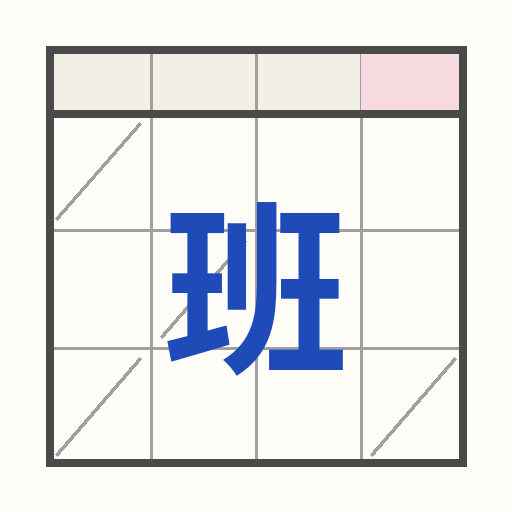
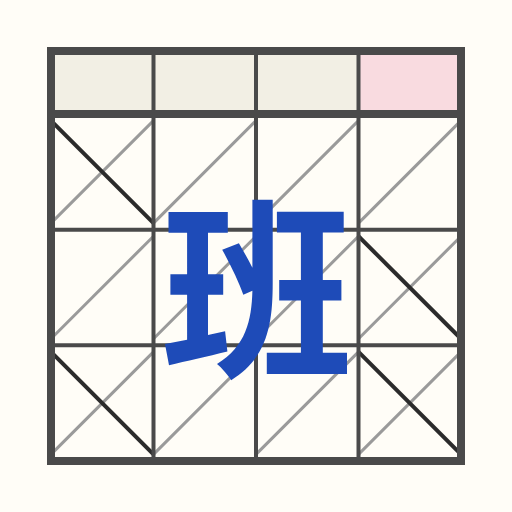
Add files via upload

diff --git a/index.html b/index.html
@@ -8,8 +8,8 @@
 <meta name="theme-color" content="#eceae3">
 <meta name="description" content="門市排班與劃假">
 <link rel="manifest" href="./manifest.webmanifest">
-<link rel="icon" href="./icon-192.png">
-<link rel="apple-touch-icon" href="./apple-touch-icon.png">
+<link rel="icon" href="./icon-192.png?v=2">
+<link rel="apple-touch-icon" href="./apple-touch-icon.png?v=2">
 <meta name="mobile-web-app-capable" content="yes">
 <meta name="apple-mobile-web-app-capable" content="yes">
 <meta name="apple-mobile-web-app-status-bar-style" content="default">
@@ -997,9 +997,79 @@ body.print-sizing .name-sub{margin-top:0}
   html.dark .c-amber{color:#d99a00}
   html.dark .c-orange{color:#a85c07}
 }
+/* ── 開啟動畫：圖示淡入後自己畫出來，再放大淡出進入班表（框線規格同實際班表） ── */
+.splash{position:fixed;inset:0;z-index:9999;background:#eceae3;display:flex;align-items:center;justify-content:center;
+  transition:opacity .5s ease .1s;-webkit-tap-highlight-color:transparent}
+.splash .sp-ico{width:min(46vw,230px);height:auto;overflow:visible;
+  transform-origin:50% 50%;transition:transform .6s cubic-bezier(.55,0,.75,.2),opacity .5s ease}
+.splash .sp-in{transform-box:view-box;transform-origin:50% 50%;animation:spIn .45s cubic-bezier(.2,.7,.3,1) both}
+.splash.out{opacity:0;pointer-events:none}
+.splash.out .sp-ico{transform:scale(5.5);opacity:0}
+.splash .sp-paper{filter:drop-shadow(0 6px 14px rgba(0,0,0,.12))}
+.splash .sp-draw{stroke-dasharray:1;stroke-dashoffset:1;animation:spDraw var(--t,.3s) cubic-bezier(.3,.1,.3,1) var(--d,0s) forwards}
+.splash .sp-cell{opacity:0;animation:spFade .28s ease var(--d,0s) forwards}
+.splash .sp-ban{opacity:0;transform-box:fill-box;transform-origin:50% 55%;animation:spStamp .42s cubic-bezier(.2,.9,.3,1.25) var(--d,0s) forwards}
+.splash .sp-ink{opacity:0;transform-box:fill-box;transform-origin:50% 50%;animation:spInk .62s ease-out var(--d,0s) forwards}
+@keyframes spIn{from{opacity:0;transform:scale(.9)}to{opacity:1;transform:none}}
+@keyframes spDraw{to{stroke-dashoffset:0}}
+@keyframes spFade{to{opacity:1}}
+@keyframes spStamp{0%{opacity:0;transform:scale(1.8) rotate(-8deg)}55%{opacity:1;transform:scale(.9) rotate(1deg)}100%{opacity:1;transform:scale(1) rotate(0)}}
+@keyframes spInk{0%{opacity:.4;transform:scale(.55)}100%{opacity:0;transform:scale(1.45)}}
+@media (prefers-reduced-motion:reduce){ /* 系統設定減少動態：直接顯示完成的圖示 */
+  .splash .sp-draw{animation:none;stroke-dashoffset:0}
+  .splash .sp-cell,.splash .sp-ban{animation:none;opacity:1}
+  .splash .sp-ink{display:none}
+  .splash .sp-in{animation:none}
+}
+@media print{.splash{display:none!important}}
 </style>
 </head>
 <body>
+<div class="splash" id="splash" aria-hidden="true">
+  <svg class="sp-ico" viewBox="0 0 512 512"><g class="sp-in">
+    <rect class="sp-paper" x="0" y="0" width="512" height="512" rx="96" fill="#fffdf7"/>
+    <rect class="sp-cell" style="--d:1.12s" x="51" y="51" width="102.5" height="63" fill="#f2efe4"/>
+    <rect class="sp-cell" style="--d:1.18s" x="153.5" y="51" width="102.5" height="63" fill="#f2efe4"/>
+    <rect class="sp-cell" style="--d:1.23s" x="256" y="51" width="102.5" height="63" fill="#f2efe4"/>
+    <rect class="sp-cell" style="--d:1.30s" x="358.5" y="51" width="102.5" height="63" fill="#f9dbe0"/>
+    <line class="sp-draw sp-slash" pathLength="1" style="--d:1.32s;--t:0.18s" x1="51" y1="223.08" x2="153.5" y2="120.58" stroke="#9a9a9a" stroke-width="3"/>
+    <line class="sp-draw" pathLength="1" style="--d:1.46s;--t:0.18s" x1="51" y1="120.58" x2="153.5" y2="223.08" stroke="#2b2b2b" stroke-width="4"/>
+    <line class="sp-draw sp-slash" pathLength="1" style="--d:1.39s;--t:0.18s" x1="153.5" y1="223.08" x2="256" y2="120.58" stroke="#9a9a9a" stroke-width="3"/>
+    <line class="sp-draw sp-slash" pathLength="1" style="--d:1.46s;--t:0.18s" x1="256" y1="223.08" x2="358.5" y2="120.58" stroke="#9a9a9a" stroke-width="3"/>
+    <line class="sp-draw sp-slash" pathLength="1" style="--d:1.53s;--t:0.18s" x1="358.5" y1="223.08" x2="461" y2="120.58" stroke="#9a9a9a" stroke-width="3"/>
+    <line class="sp-draw sp-slash" pathLength="1" style="--d:1.39s;--t:0.18s" x1="51" y1="338.75" x2="153.5" y2="236.25" stroke="#9a9a9a" stroke-width="3"/>
+    <line class="sp-draw sp-slash" pathLength="1" style="--d:1.46s;--t:0.18s" x1="153.5" y1="338.75" x2="256" y2="236.25" stroke="#9a9a9a" stroke-width="3"/>
+    <line class="sp-draw sp-slash" pathLength="1" style="--d:1.53s;--t:0.18s" x1="256" y1="338.75" x2="358.5" y2="236.25" stroke="#9a9a9a" stroke-width="3"/>
+    <line class="sp-draw sp-slash" pathLength="1" style="--d:1.60s;--t:0.18s" x1="358.5" y1="338.75" x2="461" y2="236.25" stroke="#9a9a9a" stroke-width="3"/>
+    <line class="sp-draw" pathLength="1" style="--d:1.74s;--t:0.18s" x1="358.5" y1="236.25" x2="461" y2="338.75" stroke="#2b2b2b" stroke-width="4"/>
+    <line class="sp-draw sp-slash" pathLength="1" style="--d:1.46s;--t:0.18s" x1="51" y1="454.42" x2="153.5" y2="351.92" stroke="#9a9a9a" stroke-width="3"/>
+    <line class="sp-draw" pathLength="1" style="--d:1.60s;--t:0.18s" x1="51" y1="351.92" x2="153.5" y2="454.42" stroke="#2b2b2b" stroke-width="4"/>
+    <line class="sp-draw sp-slash" pathLength="1" style="--d:1.53s;--t:0.18s" x1="153.5" y1="454.42" x2="256" y2="351.92" stroke="#9a9a9a" stroke-width="3"/>
+    <line class="sp-draw sp-slash" pathLength="1" style="--d:1.60s;--t:0.18s" x1="256" y1="454.42" x2="358.5" y2="351.92" stroke="#9a9a9a" stroke-width="3"/>
+    <line class="sp-draw sp-slash" pathLength="1" style="--d:1.67s;--t:0.18s" x1="358.5" y1="454.42" x2="461" y2="351.92" stroke="#9a9a9a" stroke-width="3"/>
+    <line class="sp-draw" pathLength="1" style="--d:1.81s;--t:0.18s" x1="358.5" y1="351.92" x2="461" y2="454.42" stroke="#2b2b2b" stroke-width="4"/>
+    <line class="sp-draw" pathLength="1" style="--d:0.78s;--t:0.35s" x1="153.5" y1="51" x2="153.5" y2="461" stroke="#4a4a4a" stroke-width="4"/>
+    <line class="sp-draw" pathLength="1" style="--d:0.85s;--t:0.35s" x1="256" y1="51" x2="256" y2="461" stroke="#4a4a4a" stroke-width="4"/>
+    <line class="sp-draw" pathLength="1" style="--d:0.93s;--t:0.35s" x1="358.5" y1="51" x2="358.5" y2="461" stroke="#4a4a4a" stroke-width="4"/>
+    <line class="sp-draw" pathLength="1" style="--d:0.90s;--t:0.35s" x1="51" y1="229.67" x2="461" y2="229.67" stroke="#4a4a4a" stroke-width="4"/>
+    <line class="sp-draw" pathLength="1" style="--d:0.97s;--t:0.35s" x1="51" y1="345.33" x2="461" y2="345.33" stroke="#4a4a4a" stroke-width="4"/>
+    <line class="sp-draw" pathLength="1" style="--d:0.68s;--t:0.30s" x1="51" y1="114" x2="461" y2="114" stroke="#4a4a4a" stroke-width="8"/>
+    <rect class="sp-draw" pathLength="1" style="--d:0.35s;--t:0.53s" x="51" y="51" width="410" height="410" fill="none" stroke="#4a4a4a" stroke-width="8"/>
+    <circle class="sp-ink" style="--d:1.88s" cx="256" cy="290" r="120" fill="none" stroke="#1e4bb8" stroke-width="6"/>
+    <path class="sp-ban" style="--d:1.72s" d="M279.2 280V300.6H300.9V352.8H266.8V374.1H347V352.8H322.8V300.6H341.4V280H322.8V232.4H343.7V211.7H276.9V232.4H300.9V280ZM222.2 249.7C229.9 263.7 239.3 282.7 243.3 294.8L252.4 290.8C251.6 320.3 246 346.4 217 363.9C221.4 367.4 228.4 375.4 231.2 380.2C267.9 357.8 272.7 322.8 272.7 283.5V199.8H252.4V267.7C248.1 259.5 243.3 250.6 238.9 243.2ZM165 343.9 169 365.3C185.9 361.4 207.4 356.6 227.4 351.6L225.1 331.3L208 335.1V294.8H223.2V274.3H208V232.8H227.8V211.9H168.5V232.8H187.1V274.3H170.4V294.8H187.1V339.7Z" fill="#1e4bb8"/>
+  </g></svg>
+</div>
+<script>
+(function(){ // 播完自動進入；點畫面可跳過
+  const sp=document.getElementById('splash');if(!sp)return;
+  if(navigator.webdriver){sp.remove();return}
+  let done=false;
+  const finish=()=>{if(done)return;done=true;sp.classList.add('out');setTimeout(()=>sp.remove(),700)};
+  const reduce=window.matchMedia&&matchMedia('(prefers-reduced-motion: reduce)').matches;
+  setTimeout(finish,reduce?350:2400);
+  sp.addEventListener('click',finish);
+})();
+</script>
 
 <div id="exportArea">
 <header class="topbar">
